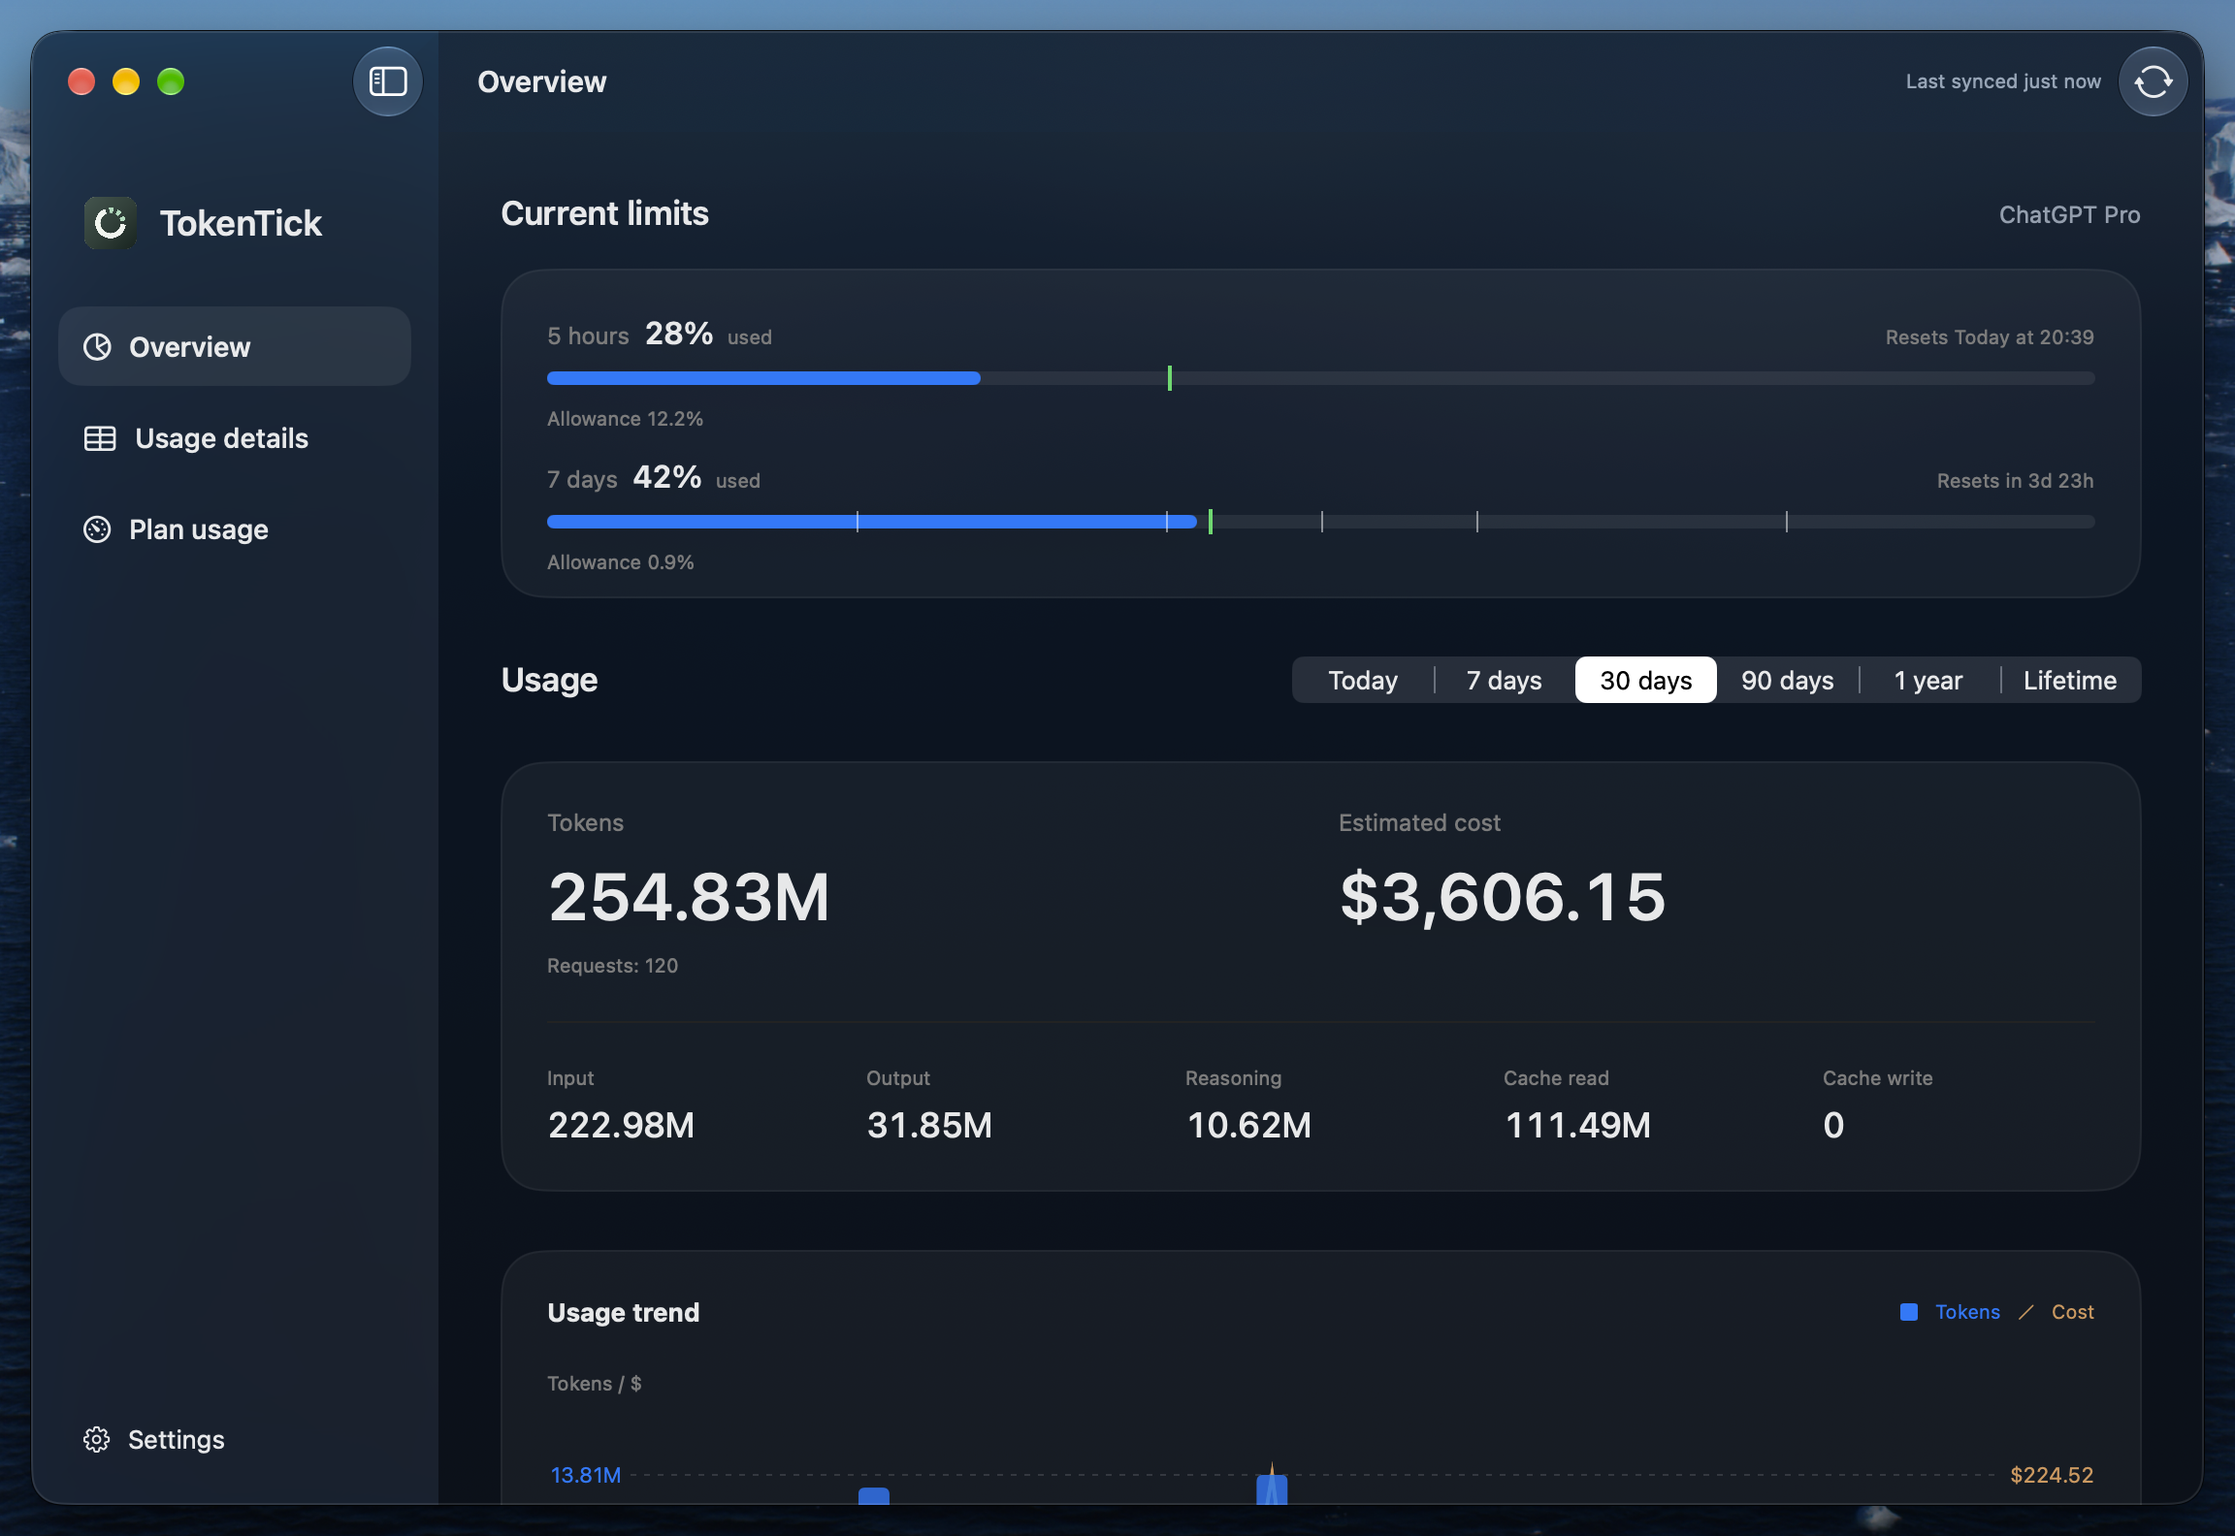
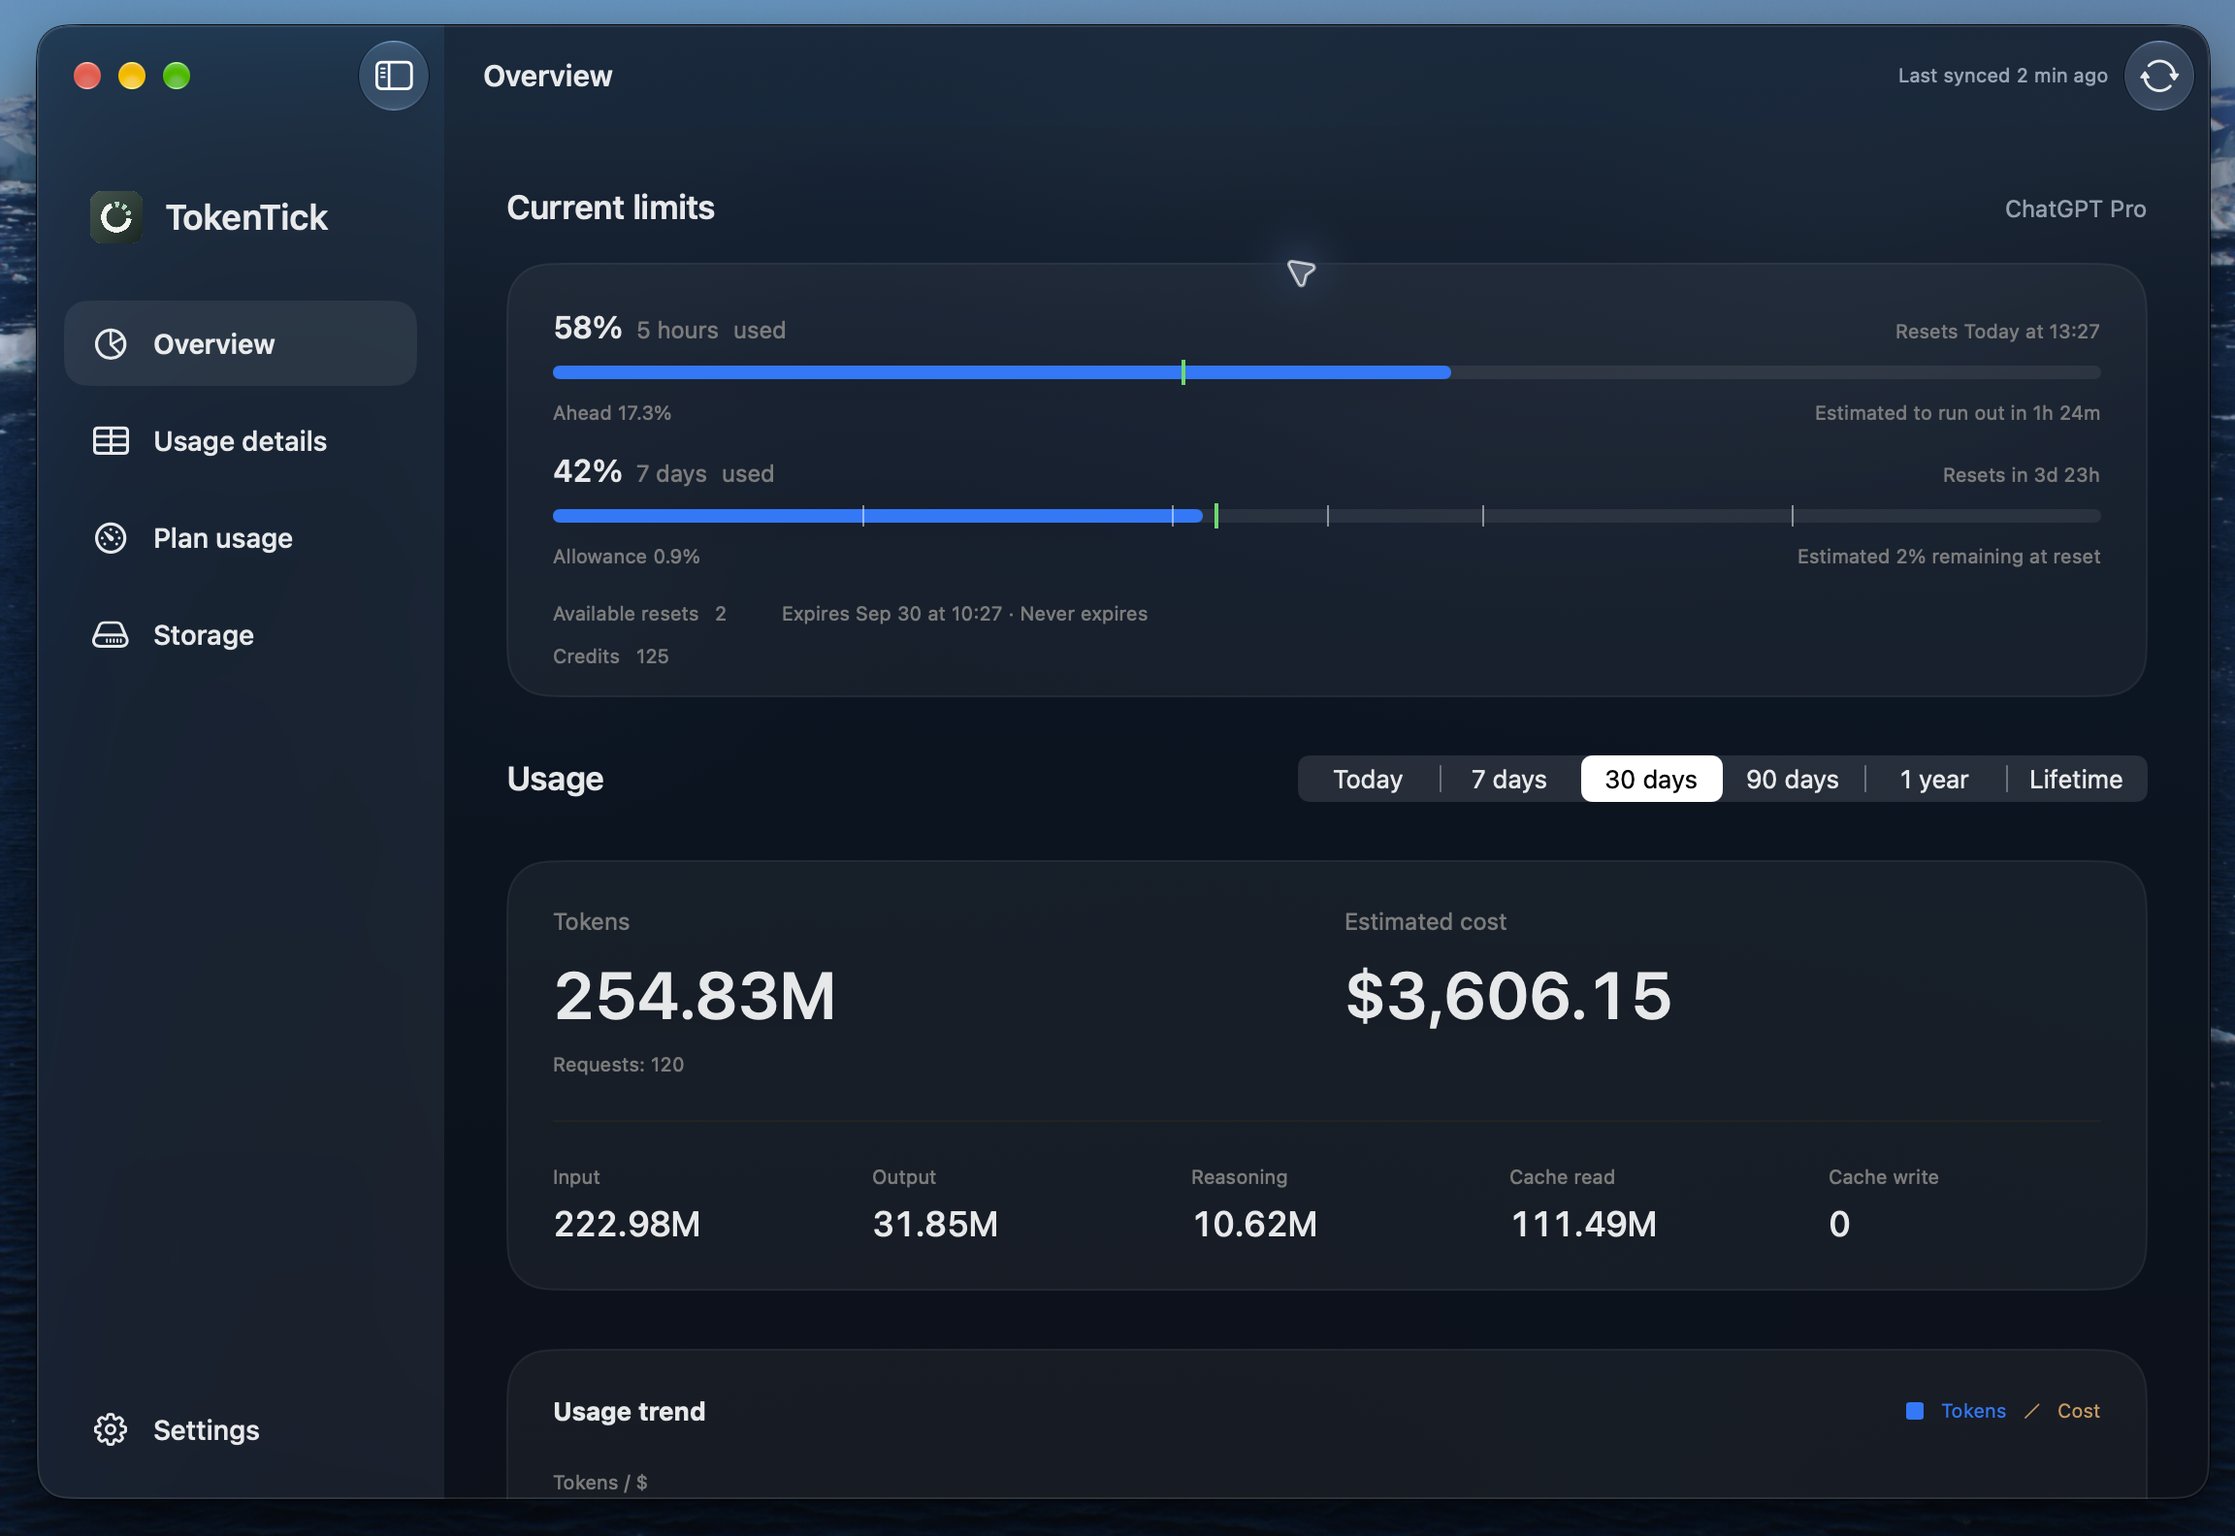
feat: estimate limit forecasts from initial usage

diff --git a/Tests/TokenTickCoreTests/LimitForecastTests.swift b/Tests/TokenTickCoreTests/LimitForecastTests.swift
@@ -10,6 +10,69 @@ struct LimitForecastTests {
                                          durationMinutes: duration, resetsAt: reset)], sourceJSON: "{}")
     }
 
+    @Test func bootstrapsFromCycleAverageThenUsesRecentRate() throws {
+        var history = LimitForecastHistory()
+        history.confirmAccount("a")
+        history.record(snapshot(9000, 25), now: 9000)
+        let initial = history.forecast(for: snapshot(9000, 25).windows[0], now: 9000)
+        #expect(initial.state == .estimated)
+        #expect(initial.sampleCount == 1)
+        #expect(initial.percentagePointsPerHour == 10)
+        #expect(initial.exhaustsAt == 36_000)
+        #expect(initial.remainingAtReset == 50)
+        // Advancing the clock without an observation must not dilute measured consumption.
+        #expect(history.forecast(for: snapshot(9000, 25).windows[0], now: 9300) == initial)
+        history.record(snapshot(9300, 30), now: 9300)
+        let blended = history.forecast(for: snapshot(9300, 30).windows[0], now: 9300)
+        #expect(abs(try #require(blended.percentagePointsPerHour) - 35.8064516129) < 0.00001)
+        history.record(snapshot(9600, 35), now: 9600)
+        let recent = history.forecast(for: snapshot(9600, 35).windows[0], now: 9600)
+        #expect(recent.percentagePointsPerHour == 60)
+        #expect(recent.exhaustsAt == 13_500)
+        #expect(recent.remainingAtReset == 0)
+    }
+
+    @Test func shortIntervalsDampenRoundingAndTwoSamplesCanEstablishRate() throws {
+        var history = LimitForecastHistory()
+        history.confirmAccount("a")
+        history.record(snapshot(9000, 25), now: 9000)
+        history.record(snapshot(9001, 26), now: 9001)
+        let rounded = history.forecast(for: snapshot(9001, 26).windows[0], now: 9001)
+        let rate = try #require(rounded.percentagePointsPerHour)
+        #expect(rate > 10 && rate < 17)
+
+        var twoPoints = LimitForecastHistory()
+        twoPoints.confirmAccount("a")
+        twoPoints.record(snapshot(9000, 25), now: 9000)
+        twoPoints.record(snapshot(9600, 35), now: 9600)
+        #expect(twoPoints.forecast(for: snapshot(9600, 35).windows[0], now: 9600).percentagePointsPerHour == 60)
+    }
+
+    @Test func unchangedSamplesGraduallyReduceRateWithoutInventingConsumption() throws {
+        var history = LimitForecastHistory()
+        history.confirmAccount("a")
+        history.record(snapshot(9000, 25), now: 9000)
+        history.record(snapshot(9300, 25), now: 9300)
+        let interim = history.forecast(for: snapshot(9300, 25).windows[0], now: 9300)
+        let rate = try #require(interim.percentagePointsPerHour)
+        #expect(rate > 0 && rate < 5)
+        history.record(snapshot(9600, 25), now: 9600)
+        #expect(history.forecast(for: snapshot(9600, 25).windows[0], now: 9600).state == .idle)
+    }
+
+    @Test func bootstrapRequiresLiveObservationAndPositiveElapsedTime() {
+        var history = LimitForecastHistory()
+        let window = snapshot(0, 10).windows[0]
+        #expect(history.forecast(for: window, now: 600).state == .insufficient)
+        history.confirmAccount("a")
+        history.record(snapshot(0, 10), now: 0)
+        #expect(history.forecast(for: window, now: 0).state == .insufficient)
+        #expect(history.forecast(for: window, now: 901).state == .stale)
+        history.record(snapshot(1200, 0), now: 1200)
+        let idle = history.forecast(for: snapshot(1200, 0).windows[0], now: 1200)
+        #expect(idle.state == .idle && idle.exhaustsAt == nil)
+    }
+
     @Test func predictsExhaustionAndResetHeadroomFromObservedPercentages() throws {
         var history = LimitForecastHistory()
         history.confirmAccount("a")
@@ -42,7 +105,7 @@ struct LimitForecastTests {
         #expect(history.forecast(for: snapshot(1200, 20).windows[0], now: 1200).sampleCount == 0)
         history.confirmAccount("a")
         history.record(snapshot(1500, 25), now: 1500)
-        #expect(history.forecast(for: snapshot(1500, 25).windows[0], now: 1500).state == .insufficient)
+        #expect(history.forecast(for: snapshot(1500, 25).windows[0], now: 1500).state == .estimated)
         history.confirmAccount(nil)
         history.record(snapshot(1800, 30, account: nil), now: 1800)
         #expect(history.forecast(for: snapshot(1800, 30).windows[0], now: 1800).sampleCount == 0)
@@ -52,7 +115,7 @@ struct LimitForecastTests {
         var history = LimitForecastHistory()
         history.confirmAccount("a")
         history.record(snapshot(600, 10), now: 600)
-        #expect(history.forecast(for: snapshot(600, 10).windows[0], now: 600).state == .insufficient)
+        #expect(history.forecast(for: snapshot(600, 10).windows[0], now: 600).state == .estimated)
         history.record(snapshot(900, 10), now: 900)
         history.record(snapshot(1200, 10), now: 1200)
         let idle = history.forecast(for: snapshot(1200, 10).windows[0], now: 1200)
@@ -73,7 +136,7 @@ struct LimitForecastTests {
                                   reset: kind == "reset" ? 19_000 : 18_000,
                                   duration: kind == "duration" ? 10080 : 300)
             history.record(latest, now: latest.observedAt)
-            #expect(history.forecast(for: latest.windows[0], now: latest.observedAt).state == .insufficient)
+            #expect(history.forecast(for: latest.windows[0], now: latest.observedAt).state == .estimated)
         }
     }
 
@@ -88,7 +151,7 @@ struct LimitForecastTests {
         history.record(snapshot(1200, 20), now: 1200)
         #expect(history.forecast(for: snapshot(1200, 20).windows[0], now: 1200).exhaustsAt == 6000)
         history.record(snapshot(1500, 5, bucket: "spark"), now: 1500)
-        #expect(history.forecast(for: snapshot(1500, 5, bucket: "spark").windows[0], now: 1500).state == .insufficient)
+        #expect(history.forecast(for: snapshot(1500, 5, bucket: "spark").windows[0], now: 1500).state == .estimated)
         #expect(history.forecast(for: snapshot(1500, 20).windows[0], now: 1500).sampleCount == 0)
     }
 

diff --git a/TokenTick/Core/Collection/LimitForecast.swift b/TokenTick/Core/Collection/LimitForecast.swift
@@ -97,10 +97,14 @@ public struct LimitForecastHistory: Sendable {
             return result(.exhausted, observedAt: last.time, count: series.samples.count, span: span,
                           exhaustsAt: last.time, remaining: 0, progress: progress)
         }
-        guard series.samples.count >= 3, span >= 600 else {
+        guard span > 0 || elapsed > 0 else {
             return result(.insufficient, observedAt: last.time, count: series.samples.count, span: span, progress: progress)
         }
-        let rate = (last.percent - first.percent) / span
+        // Blend in recent consumption immediately, damping short intervals and percentage rounding.
+        let recentWeight = min(1, span / 600)
+        let cycleRate = elapsed > 0 ? last.percent / elapsed : 0
+        let rate = cycleRate * (1 - recentWeight)
+            + (last.percent - first.percent) / max(600, span)
         guard rate > 0 else {
             return result(.idle, observedAt: last.time, count: series.samples.count, span: span,
                           rate: 0, progress: progress)

diff --git a/README.md b/README.md
@@ -4,6 +4,9 @@ A native macOS app and CLI for tracking **Codex usage limits, token usage, estim
 
 - Explore usage by day, task, project, and model.
 - Monitor current limits and review completed weekly windows.
+- Estimate when limits will run out or how much allowance will remain at reset, starting with the current cycle's average pace and adapting as new usage observations arrive.
+- View available reset credits, their expiry dates, and the credits balance returned by Codex.
+- Compare usage by model, usage mode, and reasoning effort.
 - Inspect Codex disk usage by category and browse worktree and projectless task directories.
 - Check recent activity from the menu bar.
 - Export detailed usage as JSON with the CLI.
@@ -12,11 +15,40 @@ A native macOS app and CLI for tracking **Codex usage limits, token usage, estim
 
 Requires **macOS 26+ and Apple Silicon**. Supports English and Simplified Chinese through macOS language settings. Costs are USD estimates based on public API prices, not subscription charges.
 
-<img src="assets/screenshots/dashboard.png" alt="Dashboard with sample data" width="1120">
+## Screenshots
 
-<img src="assets/screenshots/menu.png" alt="Menu bar panel with sample data" width="344">
+Screenshots use sample data.
 
-<img src="assets/screenshots/storage.png" alt="Storage page showing Codex disk usage by category" width="1120">
+**Overview and limit forecasts**
+
+See current limits, estimated exhaustion or remaining allowance at reset, available resets, and credits alongside token usage and estimated costs.
+
+<img src="assets/screenshots/dashboard.png" alt="Overview with exhaustion and reset allowance forecasts, available resets, credits, and usage totals" width="1120">
+
+<details>
+<summary>Model usage, storage, usage details, plan history, and menu bar</summary>
+
+**Model usage and storage summary**
+
+<img src="assets/screenshots/model-usage.png" alt="Usage by model, usage mode, and reasoning effort, with a disk-space summary" width="1120">
+
+**Storage details**
+
+<img src="assets/screenshots/storage.png" alt="Disk usage by category with worktree and projectless task directories" width="1120">
+
+**Usage details**
+
+<img src="assets/screenshots/usage-details.png" alt="Daily token usage, estimated costs, and request counts with filters" width="1120">
+
+**Plan history**
+
+<img src="assets/screenshots/plan-usage.png" alt="Completed weekly windows and the selected cycle's local usage" width="1120">
+
+**Menu bar**
+
+<img src="assets/screenshots/menu.png" alt="Menu bar panel with limit forecasts, reset credits, credits balance, and usage trends" width="344">
+
+</details>
 
 ## Installation
 

diff --git a/docs/technical-design.md b/docs/technical-design.md
@@ -187,10 +187,12 @@ Cycle usage is grouped by the earliest known start of each turn, falling back to
 
 Logs can update only API-confirmed windows with matching duration/reset (60-second tolerance), increasing observation time, and nondecreasing percentage. They must be at most five minutes old and from the current session, excluding inherited replay. Unknown/new boundaries require API confirmation. Retained additional windows are not new forecast observations.
 
-`LimitForecastHistory` groups by account and window identity, retaining at most six hours and 360 samples per series. Reject future/nonincreasing timestamps. A gap over 15 minutes, a decrease in percentage, or a changed duration/reset restarts sampling. Forecasts need at least three points spanning ten minutes, with the latest point no older than 15 minutes.
+`LimitForecastHistory` groups by account and window identity, retaining at most six hours and 360 samples per series. Reject future/nonincreasing timestamps. A gap over 15 minutes, a decrease in percentage, or a changed duration/reset restarts sampling. Forecasts bootstrap from `last_percent / (last_time − inferred_start)` when elapsed time is positive. Starting with the second sample, blend the cycle average with recent consumption using `weight = min(1, sampled_seconds / 600)`. Compute the recent contribution as `percent_delta / max(600, sampled_seconds)` to damp short intervals and percentage rounding; at ten minutes the recent rate has full weight, without a sample-count gate. Both rates require the latest point to be no older than 15 minutes and use its observation time rather than advancing the rate denominator with the display clock. Cached display snapshots do not seed this initial estimate.
 
 ```text
-rate = (last_percent − first_percent) / elapsed_seconds
+cycle_rate = last_percent / (last_time − inferred_start)
+weight = min(1, sampled_seconds / 600)
+rate = cycle_rate × (1 − weight) + (last_percent − first_percent) / max(600, sampled_seconds)
 exhausts_at = last_time + (100 − last_percent) / rate
 remaining_at_reset = max(0, 100 − last_percent − rate × (reset_time − last_time))
 forecast_progress_difference = last_percent − 100 × (last_time − inferred_start) / duration

diff --git a/docs/requirements.md b/docs/requirements.md
@@ -79,7 +79,7 @@ Within the same login session, an expired observation may remain visible as the 
 
 Compare observed usage with elapsed natural time in the current window. Label usage above that pace **Ahead** and usage at or below it **Allowance**, showing the absolute percentage-point difference. This comparison uses the current time and does not require forecast samples.
 
-Estimate exhaustion and remaining allowance at reset from recent percentage observations of the same account and window. Do not infer allowance from tokens or money, or combine observations across resets. Forecasts are estimates and require sufficient fresh observations and valid boundaries. Missing estimates do not need an explanatory placeholder in the main card; details can explain their state.
+Estimate exhaustion and remaining allowance at reset from recent percentage observations of the same account and window. After the first fresh, API-confirmed observation, use the current window’s used percentage divided by elapsed time at that observation as an initial average rate. Starting with the second observation, blend in the recent consumption rate on every update. Its weight grows with the observed time span, reaching full weight at ten minutes; there is no minimum sample-count gate. Do not infer allowance from tokens or money, or combine observations across resets. Forecasts are estimates and require fresh observations and valid boundaries. An initial estimate requires positive elapsed time; zero consumption does not predict exhaustion. Missing estimates do not need an explanatory placeholder in the main card; details can explain their state.
 
 ### Historical windows
 
